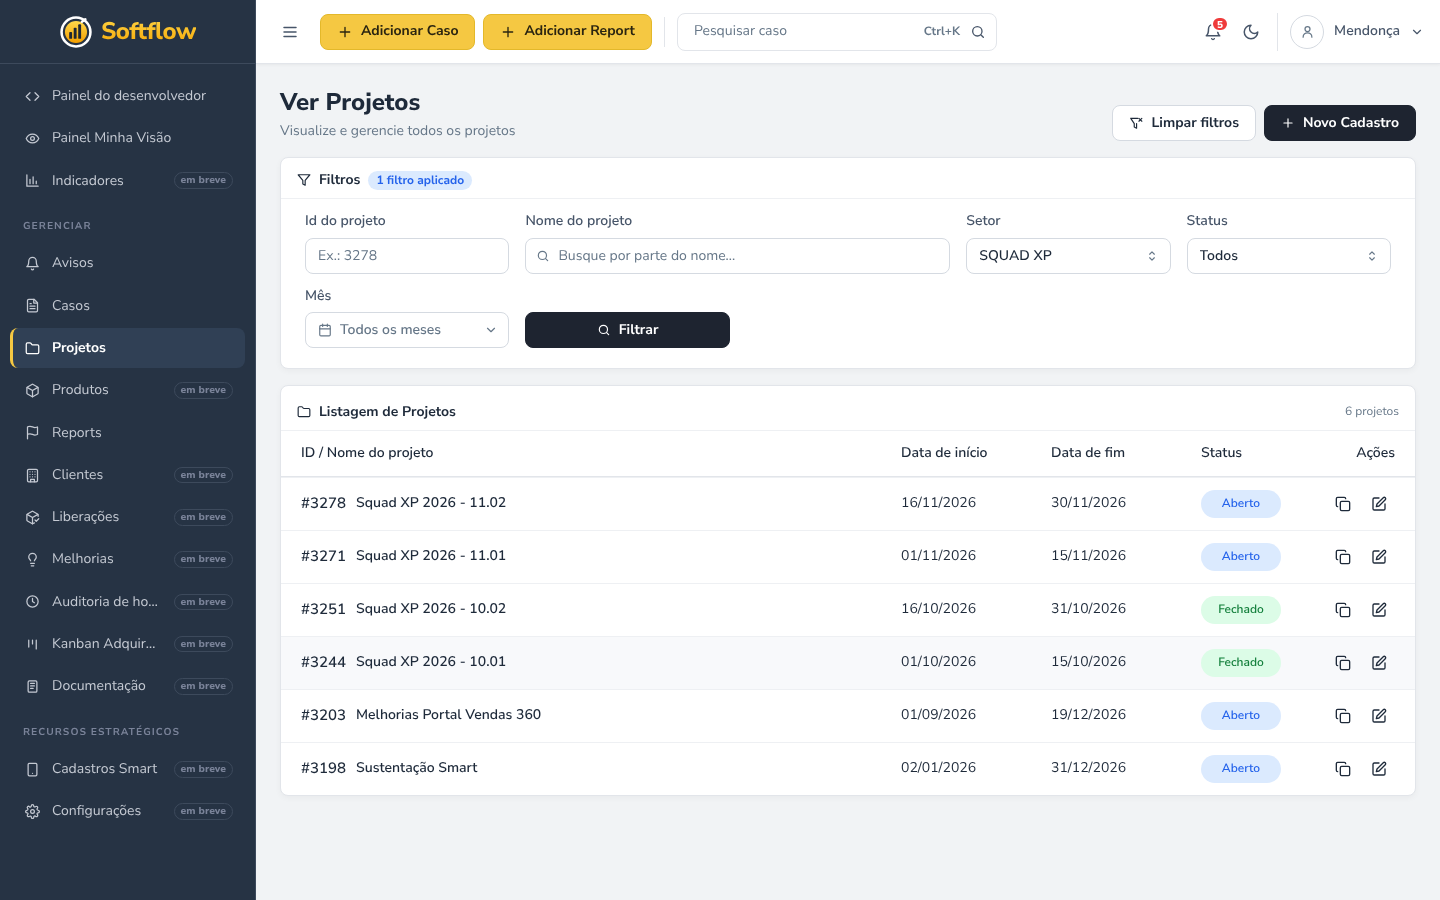
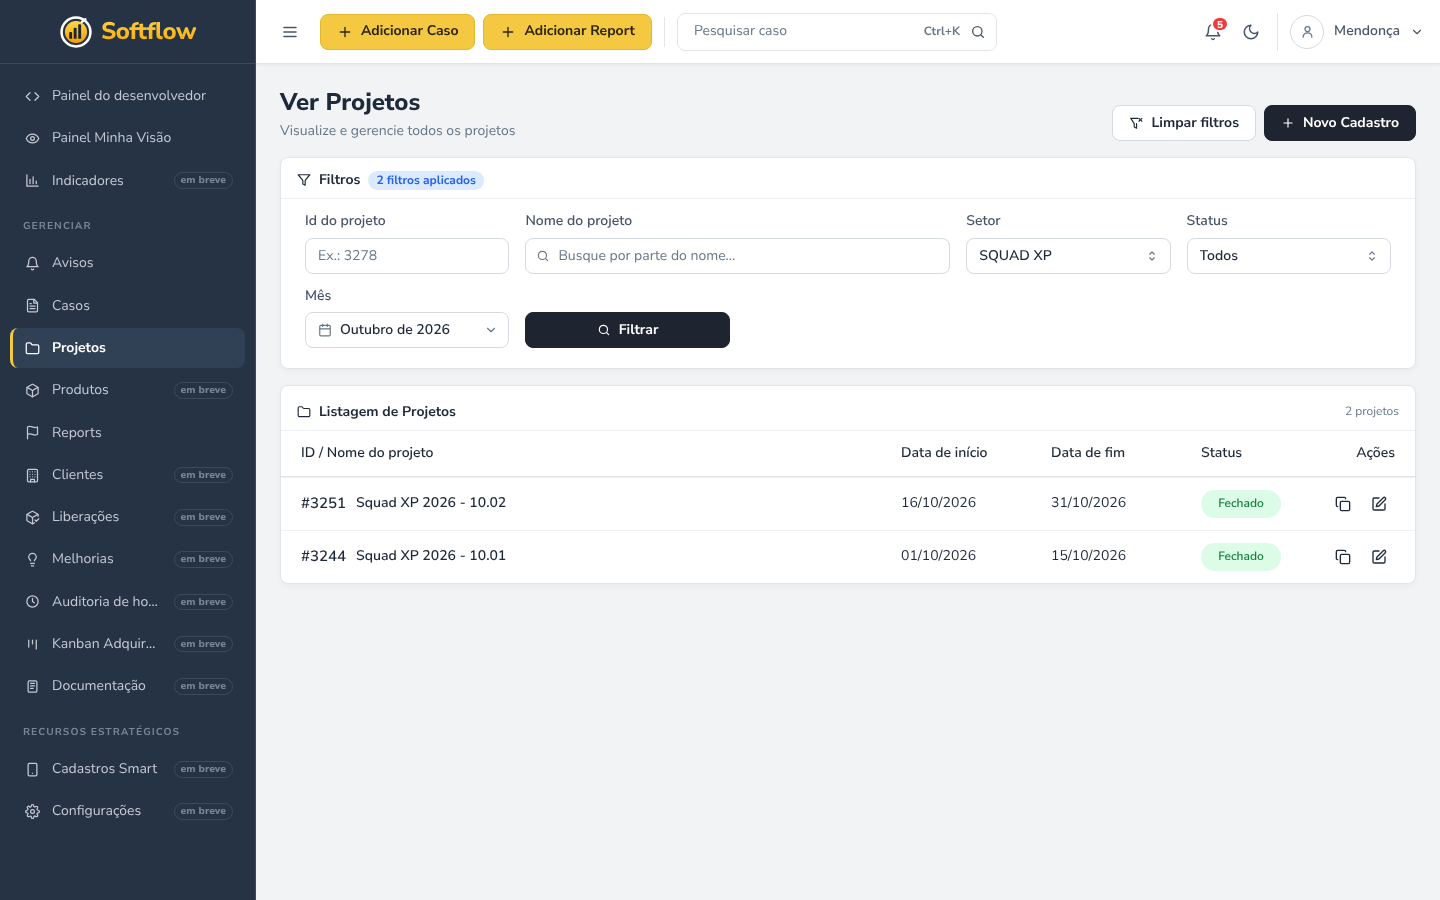
docs(projetos): filtro padrão com setor do usuário e mês atual
Decisão #37 (revoga parte das #31 e #34): a listagem abre e limpa com o
setor do usuário e o mês atual aplicados. README, protótipo e capturas
15 e 19 atualizados.

Claude-Session: https://claude.ai/code/session_01GaQZ7F8PiSFtrHFNJyzyzj

diff --git a/docs/projetos/prototipo/softflow-prototipo.html b/docs/projetos/prototipo/softflow-prototipo.html
@@ -1781,10 +1781,10 @@ const PJ_RAW = [
 const PJ_CLASSE = { ESTRATEGICO: 'Estratégico', TATICO: 'Tático', OPERACIONAL: 'Operacional' };
 // Filtros da listagem: espelham GET /sgp-cadastros?Registro=&NomeProjeto=&Setor=&Status=&data_inicio=&data_fim=
 const PJ_SETORES = ['SQUAD CLOUD', 'SQUAD Fiscal', 'SQUAD WEB', 'SQUAD XP'];
-// Setor do usuário logado (no app: getUser()). O filtro abre com ele preenchido e já aplicado.
+// Padrão ao abrir e ao limpar: setor do usuário logado (no app: getUser()) + mês atual, já aplicados.
 const PJ_SETOR_USUARIO = 'SQUAD XP';
 const PJ_FILTRO_VAZIO = () => ({ registro: '', nome: '', setor: '', status: '', mes: '' });
-const PJ_FILTRO_PADRAO = () => ({ ...PJ_FILTRO_VAZIO(), setor: PJ_SETOR_USUARIO });
+const PJ_FILTRO_PADRAO = () => ({ ...PJ_FILTRO_VAZIO(), setor: PJ_SETOR_USUARIO, mes: `${NOW.getFullYear()}-${pad(NOW.getMonth() + 1)}` });
 const PJ_MESES = ['Janeiro', 'Fevereiro', 'Março', 'Abril', 'Maio', 'Junho', 'Julho', 'Agosto', 'Setembro', 'Outubro', 'Novembro', 'Dezembro'];
 const pjTemFiltro = f => Object.values(f).some(v => String(v).trim());
 // Mês 'AAAA-MM' → data_inicio = 1º dia e data_fim = último dia do mês.

diff --git a/docs/projetos/README.md b/docs/projetos/README.md
@@ -4,10 +4,10 @@
 > Padrões gerais em [`padrao-front/`](../padrao-front/README.md). Decisões travadas em
 > [`decisoes.md`](decisoes.md).
 >
-> **Próxima mudança planejada: filtros da listagem** (Nome, Setor do usuário já aplicado, Status e
-> Mês). Especificada em 2026-11-19 e ainda não implementada. Ver a seção
-> [Próxima mudança planejada](#próxima-mudança-planejada-filtros-da-listagem-de-projetos) e as
-> decisões #30 a #36.
+> **Próxima mudança planejada: filtros da listagem** (Nome, Setor, Status e Mês; abre com o setor
+> do usuário e o mês atual já aplicados). Especificada em 2026-11-19 e ainda não implementada. Ver
+> a seção [Próxima mudança planejada](#próxima-mudança-planejada-filtros-da-listagem-de-projetos)
+> e as decisões #30 a #37.
 
 ## O que é
 
@@ -285,9 +285,9 @@ hooks/projetos/use-salvar-stakes-em-lote.ts  POST/PUT por linha em sequência, r
 
 Hoje a listagem `/projetos` só filtra por **Id do projeto** (`Registro`). Os filtros de Setor e
 Objetivo existem no código, mas estão comentados. Esta mudança acrescenta **Nome do projeto, Setor,
-Status e Mês**, que são parâmetros que o `GET /sgp-cadastros` já aceita. O Setor vem **preenchido e
-aplicado** com o setor do usuário logado, então a lista já abre com os projetos do squad dele
-(decisões #30 a #36).
+Status e Mês**, que são parâmetros que o `GET /sgp-cadastros` já aceita. A tela abre com o **setor do
+usuário logado e o mês atual** preenchidos e aplicados, então a lista já mostra os projetos do
+squad dele no mês (decisões #30 a #37).
 
 ### Protótipo
 
@@ -298,7 +298,7 @@ mock, o mês atual é outubro de 2026 (`NOW`).
 
 | Captura | Estado |
 |---------|--------|
-| `capturas/15-projetos-filtros-padrao.png` | Ao abrir: Setor = setor do usuário, já aplicado ("1 filtro aplicado") |
+| `capturas/15-projetos-filtros-padrao.png` | Ao abrir: Setor = setor do usuário e Mês = mês atual, já aplicados ("2 filtros aplicados") |
 | `capturas/16-projetos-seletor-mes.png` | Seletor de mês aberto: ano com setas, 12 meses, mês atual com contorno, "Este mês" e "Todos os meses" |
 | `capturas/17-projetos-filtrado-mes.png` | Novembro de 2026 + Aberto |
 | `capturas/18-projetos-sem-resultado.png` | Nenhum projeto encontrado |
@@ -315,9 +315,9 @@ mock, o mês atual é outubro de 2026 (`NOW`).
    |---|---|---|
    | Id do projeto | `Registro` | Só dígitos (mantém o campo atual) |
    | Nome do projeto | `NomeProjeto` | Texto com ícone de busca, "Busque por parte do nome..."; `trim` |
-   | Setor | `Setor` (nome) | Select com "Todos"; abre com o setor do usuário (decisão #31) |
+   | Setor | `Setor` (nome) | Select com "Todos"; abre com o setor do usuário (decisões #31 e #37) |
    | Status | `Status` | Todos / Aberto (`ABERTO`) / Fechado (`FECHADO`) (decisão #33) |
-   | Mês | `data_inicio` + `data_fim` | Seletor só de mês (decisão #32): 1º e último dia do mês, `AAAA-MM-DD` |
+   | Mês | `data_inicio` + `data_fim` | Seletor só de mês (decisão #32): 1º e último dia do mês, `AAAA-MM-DD`; abre com o mês atual (decisão #37) |
 
 3. **Seletor de mês** (decisão #32): o gatilho tem a aparência de um select, com ícone `Calendar`,
    e mostra "Novembro de 2026" ou "Todos os meses". Ele abre um popover com:
@@ -331,10 +331,11 @@ mock, o mês atual é outubro de 2026 (`NOW`).
 4. **Aplicar**: o botão **Filtrar** e o **Enter** em qualquer campo de texto aplicam os filtros.
    Filtrar fica desabilitado sem nenhum filtro, como hoje. Os filtros continuam na URL (`nuqs`),
    com as chaves novas `nome`, `status` e `mes`.
-5. **Ao abrir a tela** sem filtros na URL: Setor = setor do usuário, e a busca já sai (decisão
-   #31). Com filtros na URL, valem os da URL.
-6. **Limpar filtros** (botão do topo da página): volta ao padrão, com o setor do usuário aplicado e
-   o resto vazio (decisão #34). Para ver todos os setores, o usuário escolhe "Todos" no Setor.
+5. **Ao abrir a tela** sem filtros na URL: Setor = setor do usuário e Mês = mês atual (data do
+   navegador), e a busca já sai (decisão #37). Com filtros na URL, valem os da URL.
+6. **Limpar filtros** (botão do topo da página): volta ao padrão, com o setor do usuário e o mês
+   atual aplicados e o resto vazio (decisão #37). Para ver todos os setores ou todos os meses, o
+   usuário escolhe "Todos" no Setor ou "Todos os meses" no seletor.
 7. Estados: "Nenhum filtro aplicado" (quando o usuário tira tudo), skeleton durante a busca e
    "Nenhum projeto encontrado". Esses três estados não mudam.
 
@@ -361,7 +362,7 @@ components/projetos/filtros/
 ├── projetos-filtros-mappers.ts   + mesParaIntervalo; filtrosToSgpCadastrosParams com os novos
 ├── projetos-filtros-parsers.ts   + nome, status, mes na URL
 components/fields/mes-picker.tsx  seletor só de mês (novo, genérico)
-hooks/projetos/use-projetos-filtros.ts   padrão com o setor do usuário; limpar volta ao padrão
+hooks/projetos/use-projetos-filtros.ts   padrão = setor do usuário + mês atual; limpar volta ao padrão
 services/sgp-cadastros/get-sgp-cadastros.ts  + nome_projeto, status, data_inicio, data_fim
 app/api/sgp-cadastros/route.ts    GET repassa NomeProjeto, Status, data_inicio e data_fim
 ```
@@ -381,9 +382,9 @@ app/api/sgp-cadastros/route.ts    GET repassa NomeProjeto, Status, data_inicio e
 
 1. **Parte 1: dados.** Service e route com os 4 parâmetros novos, tipos, parsers e mappers
    (`mesParaIntervalo`). Conferir as perguntas 1 e 2 na API de teste.
-2. **Parte 2: tela.** `mes-picker`, campos novos no card, setor do usuário como padrão e Limpar
-   voltando ao padrão. Conferir no navegador: abrir já filtrado, Enter, mês, URL com os filtros e
-   mobile.
+2. **Parte 2: tela.** `mes-picker`, campos novos no card, padrão com setor do usuário e mês atual,
+   e Limpar voltando ao padrão. Conferir no navegador: abrir já filtrado pelo setor e pelo mês,
+   Enter, mês, URL com os filtros e mobile.
 3. **Parte 3: fechamento.** README, decisões, contexto e status.
 
 ### Fora do escopo

diff --git a/docs/contexto-projeto-softflow.md b/docs/contexto-projeto-softflow.md
@@ -96,7 +96,7 @@ Navegação em três blocos: **painéis pessoais**, **gerenciar** e **recursos**
 
 ### Projetos e entrega
 
-- **Projetos** (`/projetos`) — listagem, cadastro (`/projetos/novo`) e edição (`/projetos/[id]`) com abas: **Abertura, Escopo, Risco, Stakeholders, Cronograma**. Escopo lista casos/reports da memória do projeto (badges de status, origem caso vs report) e duplica casos para outro projeto: sem seleção, a API leva os elegíveis do projeto; com casos marcados, só esses ids vão em `registros`. A aba Stakeholders é uma lista editável em linha (estilo planilha): salvar em lote (um POST/PUT por linha, erro por linha), colaborador repetido bloqueado, aviso "Descartar alterações?" ao sair com linhas não salvas, copiar linhas em TSV, colar com Ctrl+V e importar de outro projeto do mesmo setor. Padrão de pastas em `docs/projetos/README.md`. Planejado (não implementado): filtros da listagem por Nome, Setor (padrão: o do usuário), Status e Mês.
+- **Projetos** (`/projetos`) — listagem, cadastro (`/projetos/novo`) e edição (`/projetos/[id]`) com abas: **Abertura, Escopo, Risco, Stakeholders, Cronograma**. Escopo lista casos/reports da memória do projeto (badges de status, origem caso vs report) e duplica casos para outro projeto: sem seleção, a API leva os elegíveis do projeto; com casos marcados, só esses ids vão em `registros`. A aba Stakeholders é uma lista editável em linha (estilo planilha): salvar em lote (um POST/PUT por linha, erro por linha), colaborador repetido bloqueado, aviso "Descartar alterações?" ao sair com linhas não salvas, copiar linhas em TSV, colar com Ctrl+V e importar de outro projeto do mesmo setor. Padrão de pastas em `docs/projetos/README.md`. Planejado (não implementado): filtros da listagem por Nome, Setor, Status e Mês (padrão: setor do usuário + mês atual).
   A listagem e o menu ⋯ da edição clonam um projeto (Clonar, permissão `create-project`): modal com nome e
   período (padrão: próximo período com a mesma duração), `POST /sgp-cadastros/{registro}/clonar`
   pela rota `app/api/sgp-cadastros/[id]/clonar`. A API copia o cadastro, os usuários autorizados e

diff --git a/docs/status-projeto-softflow.md b/docs/status-projeto-softflow.md
@@ -172,8 +172,8 @@ planejado"** (ou com a seção "Próxima mudança planejada") e aparece aqui.
 - **Avisos: rascunhos e avisos enviados**: o botão "Salvar rascunho" ficou fora do envio de
   avisos até existir uma tela para ver e retomar rascunhos e enviados (decisão #13 de
   [`avisos/`](avisos/decisoes.md)).
-- **Projetos: filtros da listagem**: especificado em 2026-11-19. Nome do projeto, Setor (já
-  aplicado com o setor do usuário), Status (Aberto/Fechado) e Mês (seletor só de mês → `data_inicio`/
-  `data_fim`), além do Id que já existe. Protótipo, decisões #30 a #36 e plano em 3 partes em
+- **Projetos: filtros da listagem**: especificado em 2026-11-19. Nome do projeto, Setor, Status
+  (Aberto/Fechado) e Mês (seletor só de mês → `data_inicio`/`data_fim`), além do Id. Abre com o setor
+  do usuário e o mês atual já aplicados. Protótipo, decisões #30 a #37 e plano em 3 partes em
   [`projetos/`](projetos/README.md#próxima-mudança-planejada-filtros-da-listagem-de-projetos). Regra
   de período da API para conferir na Fase 0. Implementar com `/implementar projetos`.

diff --git a/docs/projetos/decisoes.md b/docs/projetos/decisoes.md
@@ -201,3 +201,9 @@ em [`prototipo/`](prototipo/) (capturas 15 a 19).
 
 36. **Filtrar continua por botão (ou Enter), e os filtros continuam na URL.** **Por quê:** é o
     padrão das outras listagens (Casos, Liberações) e evita uma busca a cada tecla no Nome.
+
+37. **O padrão da listagem é o setor do usuário + o mês atual, já aplicados.** Vale ao abrir a
+    tela sem filtros na URL e ao clicar em "Limpar filtros". O mês atual vem da data do navegador.
+    Revoga a parte da decisão #31 que só aplicava o setor e a parte da decisão #34 que deixava o
+    mês vazio ao limpar. **Por quê:** pedido do usuário depois de ver o protótipo. O uso comum é
+    olhar os projetos do squad no mês corrente.
